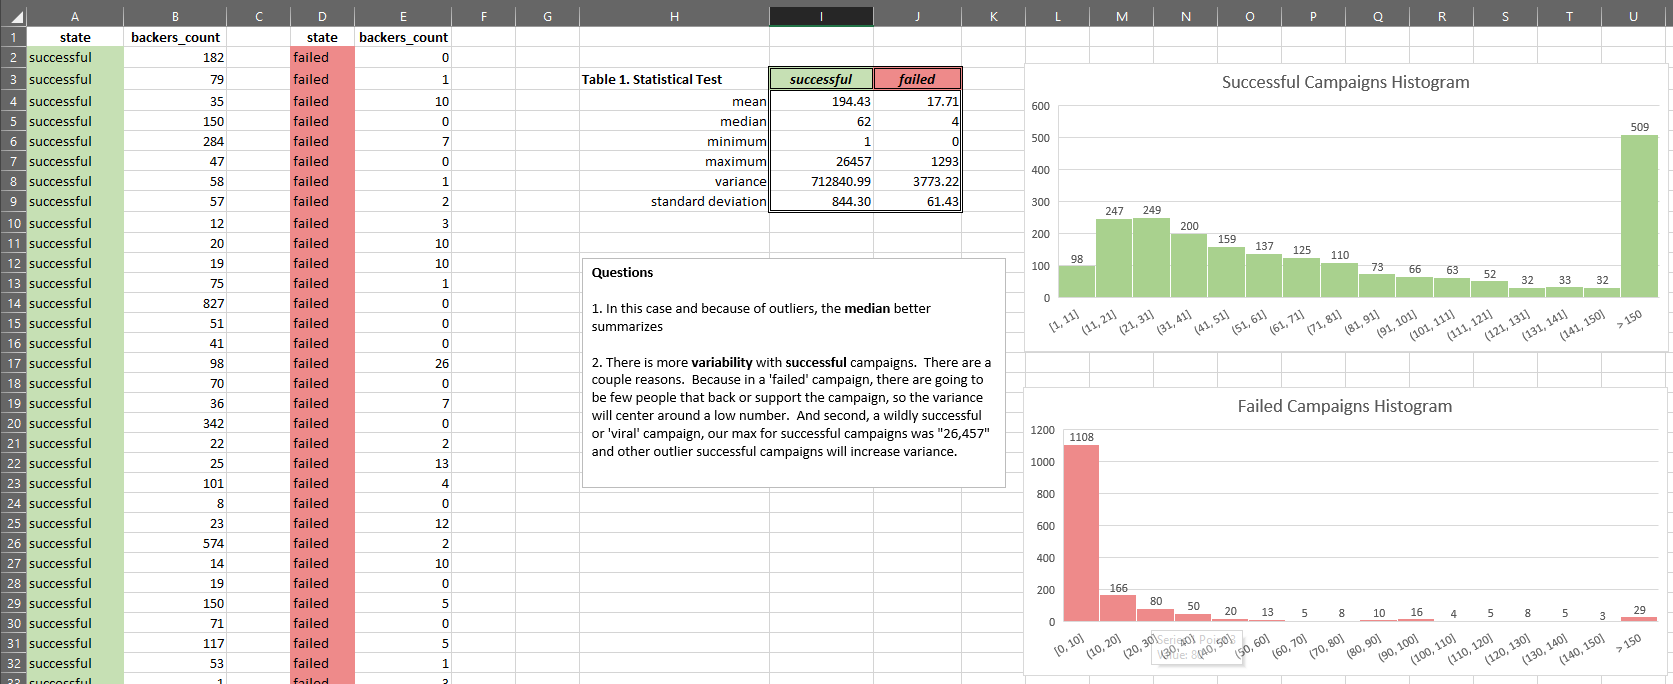
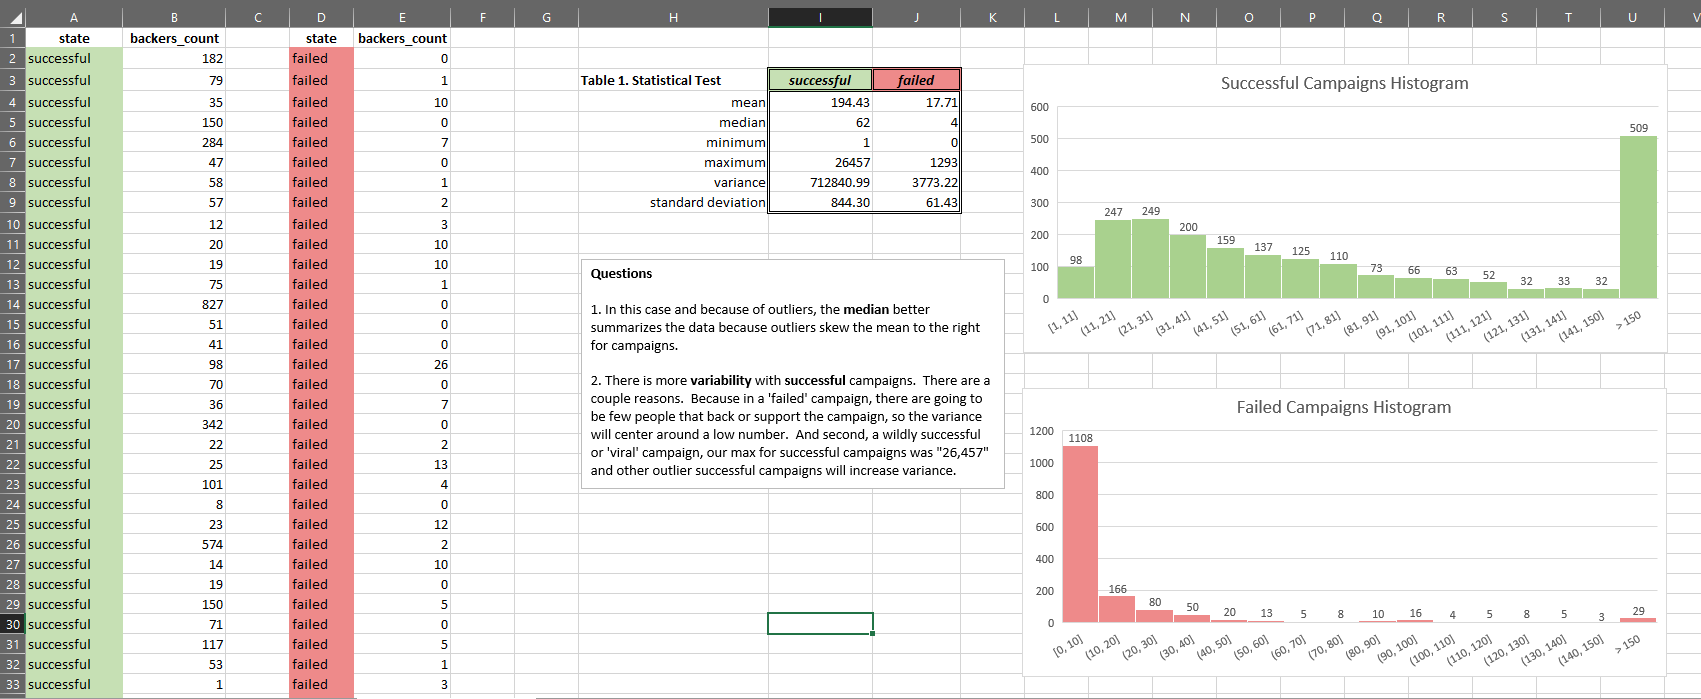
updated statistical tests png and added a couple lines to questions about statistical tests on readme.md

diff --git a/README.md b/README.md
@@ -70,6 +70,8 @@ created `excel-challenge.docx` to answer the following questions:
 	5. `variance` = `=VAR.P(successful|failed)`
 	6. `standard deviation` = `=STDEV.P(successful|failed)`
 7. Answered questions about whether or not mean or median better summarized data and which, failed or successful campagins had higher variability.
+	1. Wrote that the **median** better summarized data because of the effect of outliers on mean.
+	2. Wrote that there was more variability with successful campaigns because wildy-successful or viral campaigns could greatly increase the variability.  And, that also, the failed campaigned centered around low numbers because there were not many people willing to back their projects.
 
 ![](Images/bonus_statistical_analysis.png)
 
